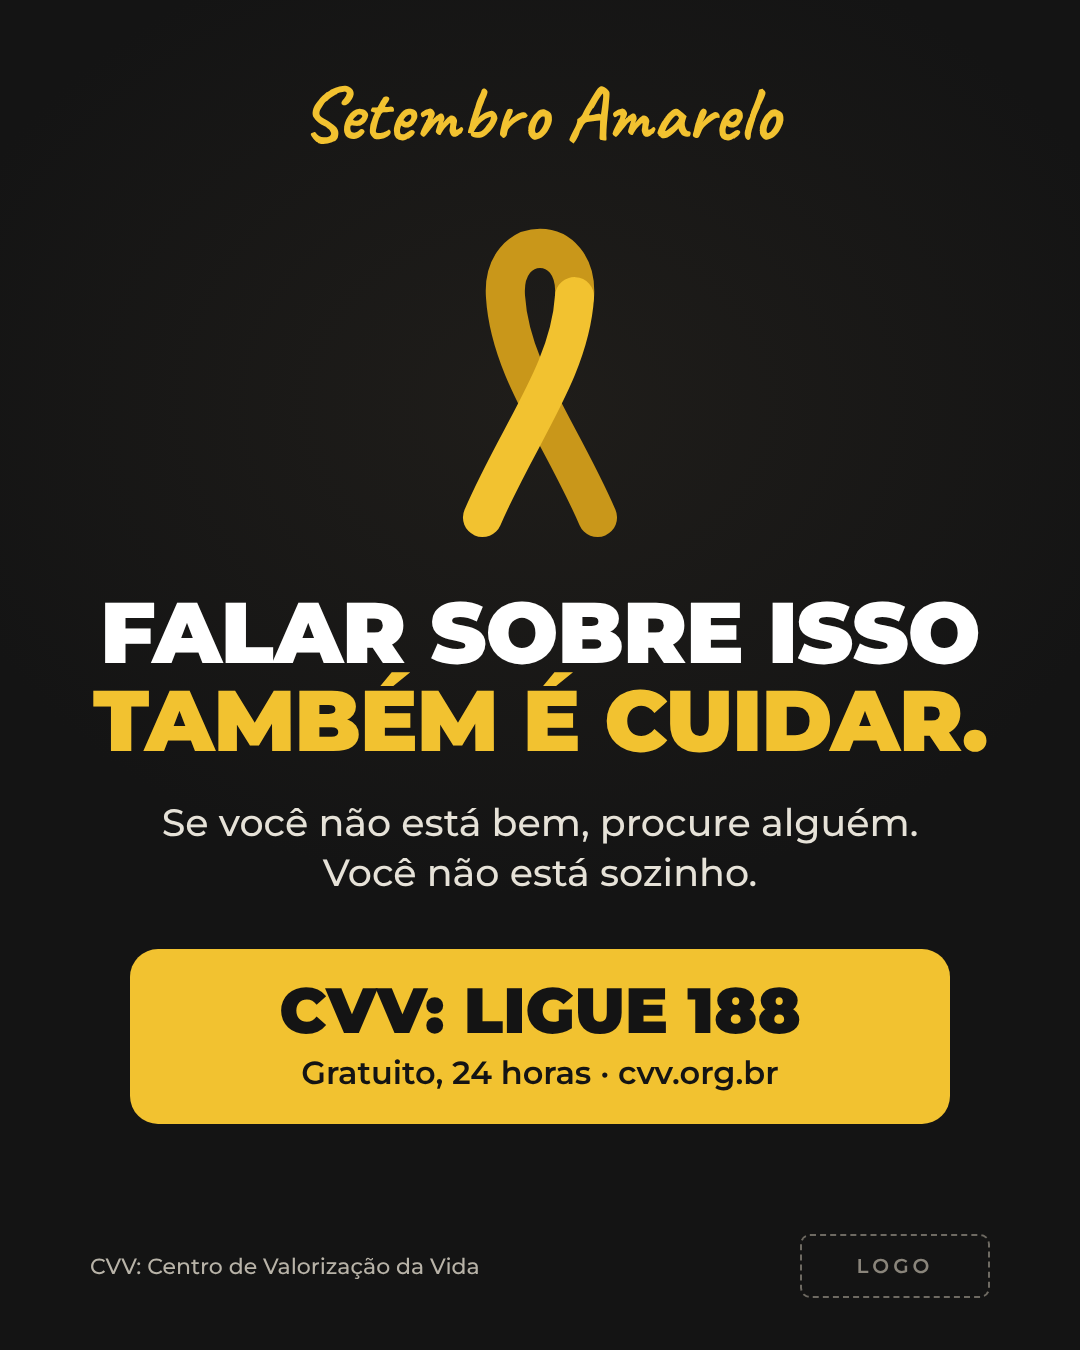
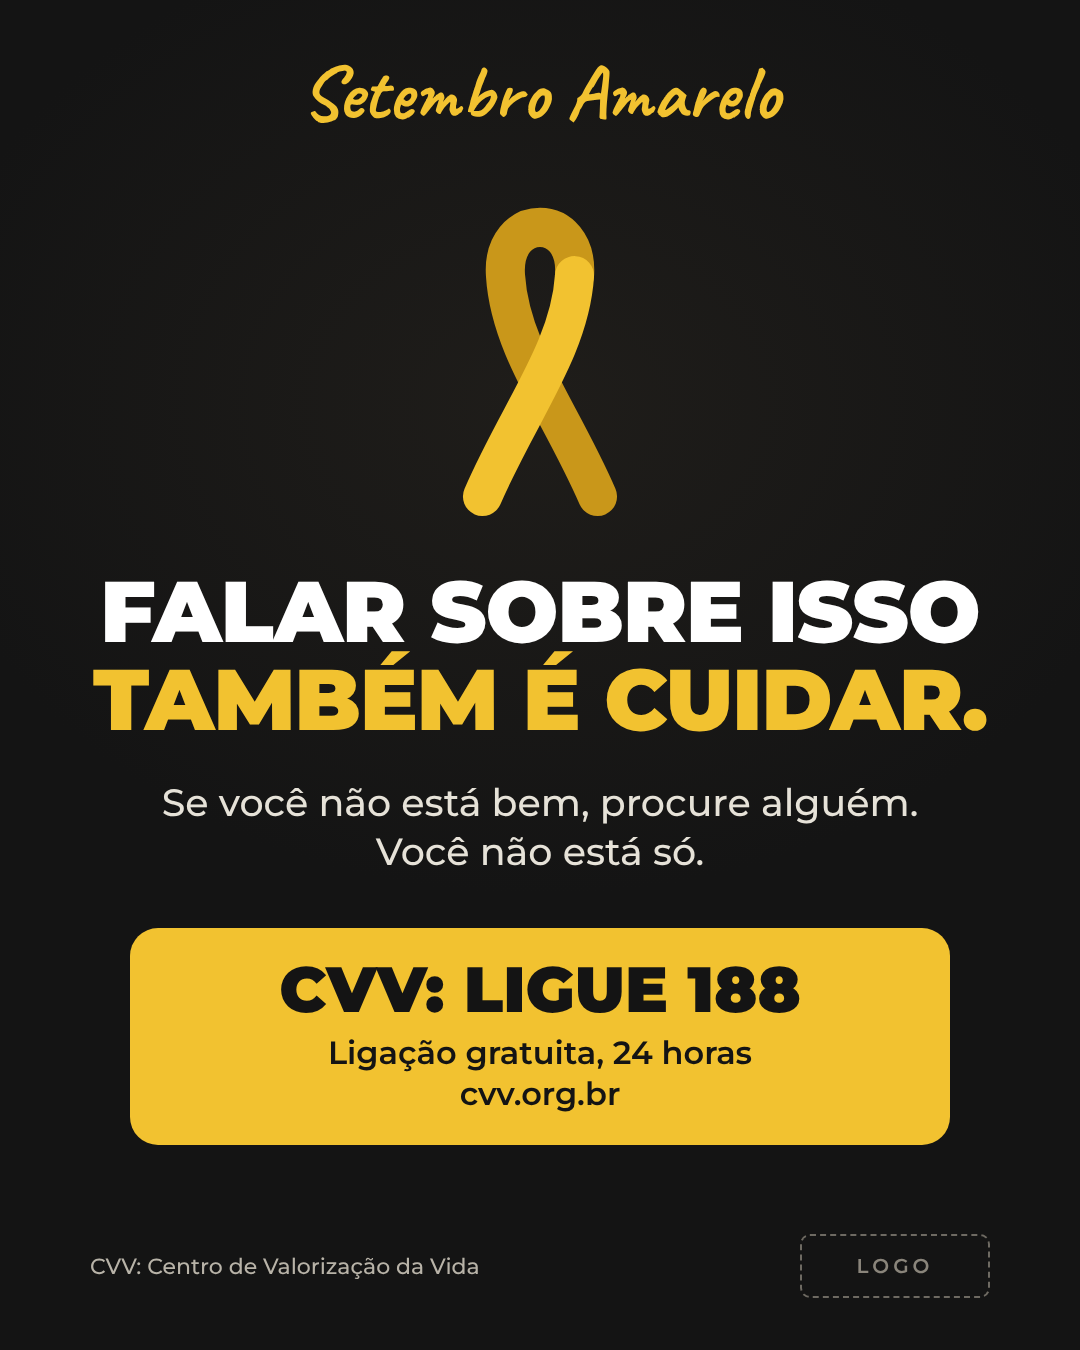
Setembro Amarelo: ajustes da revisão do Guardião da Marca
Claude-Session: https://claude.ai/code/session_017PLFAh28JnQHm2UEnQF1yP

diff --git a/entregas/2026-11-06-setembro-amarelo/peca-feed.html b/entregas/2026-11-06-setembro-amarelo/peca-feed.html
@@ -80,11 +80,11 @@
 
   <h1 class="titulo">Falar sobre isso<br><span>também é cuidar.</span></h1>
 
-  <p class="apoio">Se você não está bem, procure alguém.<br>Você não está sozinho.</p>
+  <p class="apoio">Se você não está bem, procure alguém.<br>Você não está só.</p>
 
   <div class="ajuda">
     <div class="linha1">CVV: ligue 188</div>
-    <div class="linha2">Gratuito, 24 horas &middot; cvv.org.br</div>
+    <div class="linha2">Ligação gratuita, 24 horas<br>cvv.org.br</div>
   </div>
   </main>
 

diff --git a/entregas/2026-11-06-setembro-amarelo/legenda.md b/entregas/2026-11-06-setembro-amarelo/legenda.md
@@ -2,14 +2,25 @@
 
 Falar sobre o que a gente sente também é uma forma de cuidar.
 
-Se você não está bem, procure alguém de confiança: um amigo, alguém da família, um profissional de saúde. E, se perceber que alguém perto de você está diferente, ofereça uma escuta sem julgamento. Às vezes, uma conversa faz toda a diferença.
+Se você não está bem, procure alguém de confiança: uma pessoa amiga, alguém da família, profissionais de saúde. E, se perceber que alguém perto de você está diferente, ofereça uma escuta sem julgamento. Às vezes, uma conversa faz toda a diferença.
 
-Você não está sozinho. O CVV (Centro de Valorização da Vida) atende de graça, 24 horas por dia, pelo telefone 188, e também pelo site cvv.org.br.
+Você não está só. O CVV (Centro de Valorização da Vida) atende de graça, 24 horas por dia, pelo telefone 188. Também há atendimento por chat e e-mail em cvv.org.br.
 
 #SetembroAmarelo #SaudeMental #ValorizacaoDaVida
 
 ---
 
-**Nota:** Publicar em setembro; peça institucional, sem impulsionamento com objetivo de leads.
+**Nota:** Guardar para o Setembro Amarelo de 2027 e reconferir os dados do CVV antes de publicar; peça institucional, sem impulsionamento com objetivo de leads.
 
 Contagem: cerca de 520 caracteres no texto da legenda (sem esta nota).
+
+## Versão para impulsionamento (só se for impulsionar)
+
+Texto principal (início, para não ser cortado no "ver mais"):
+"Se não estiver bem, procure alguém. CVV: ligue 188, ligação gratuita, 24 horas."
+
+Objetivo: alcance ou reconhecimento (nunca leads ou conversão), sem link para página comercial, sem segmentar por interesses de saúde mental. A Meta pode classificar como tema social e exigir autorização do anunciante e o aviso "Pago por". Pré-verificação do Guardião da Marca em 06/11/2026; não garante aprovação.
+
+## Revisão do Guardião da Marca (06/11/2026): aprovado com ajustes
+
+Aplicados: linguagem inclusiva ("Você não está só"), linha do CVV separada, legenda sem sugerir que o site atende 24h, data de publicação. Pendente antes de publicar: logotipo oficial no lugar do espaço "LOGO"; confirmar os dados no site cvv.org.br (não abriu nesta sessão).
